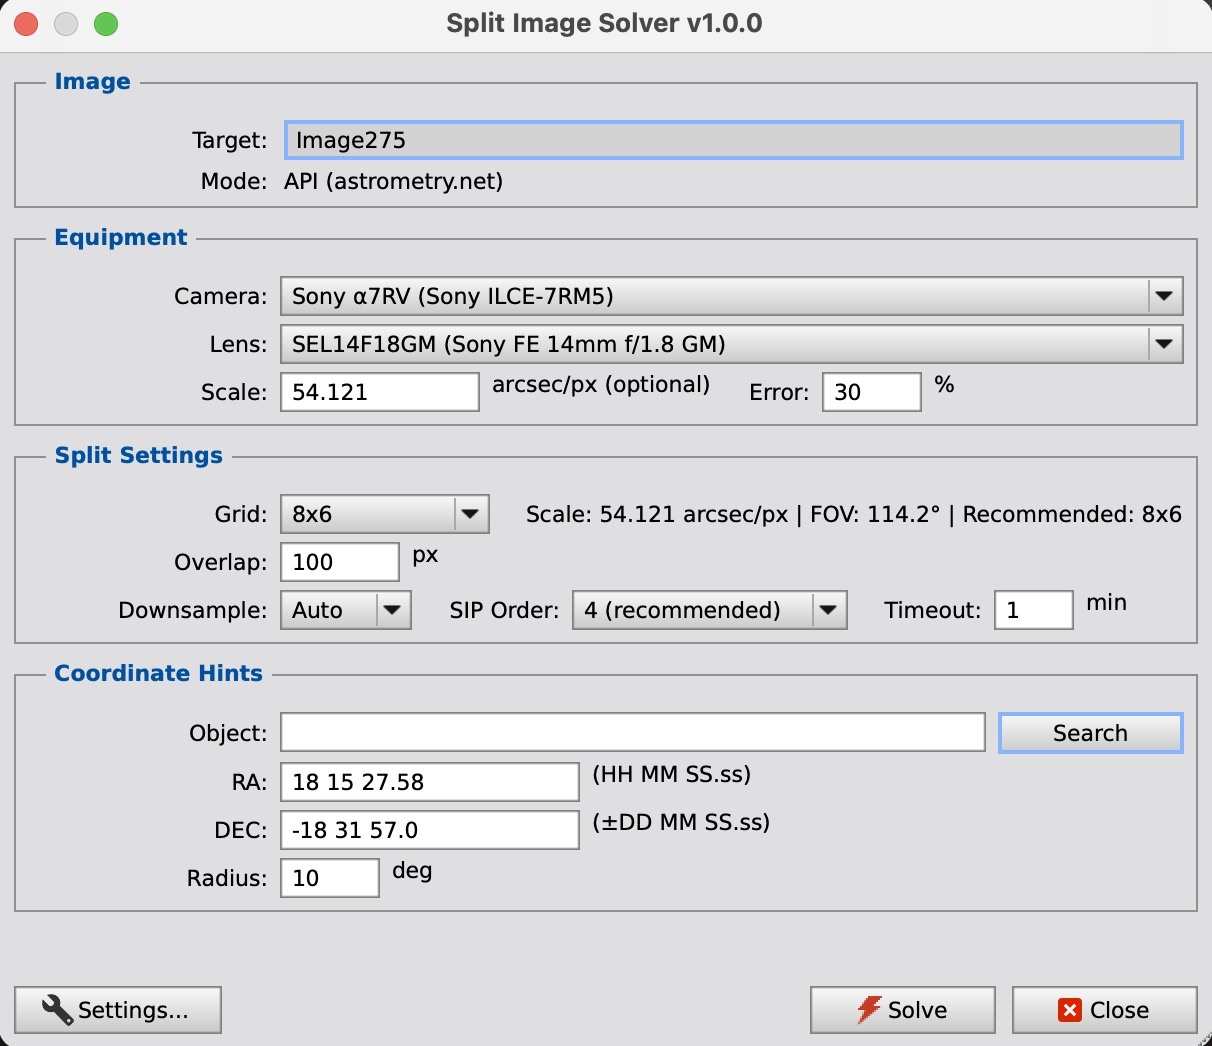
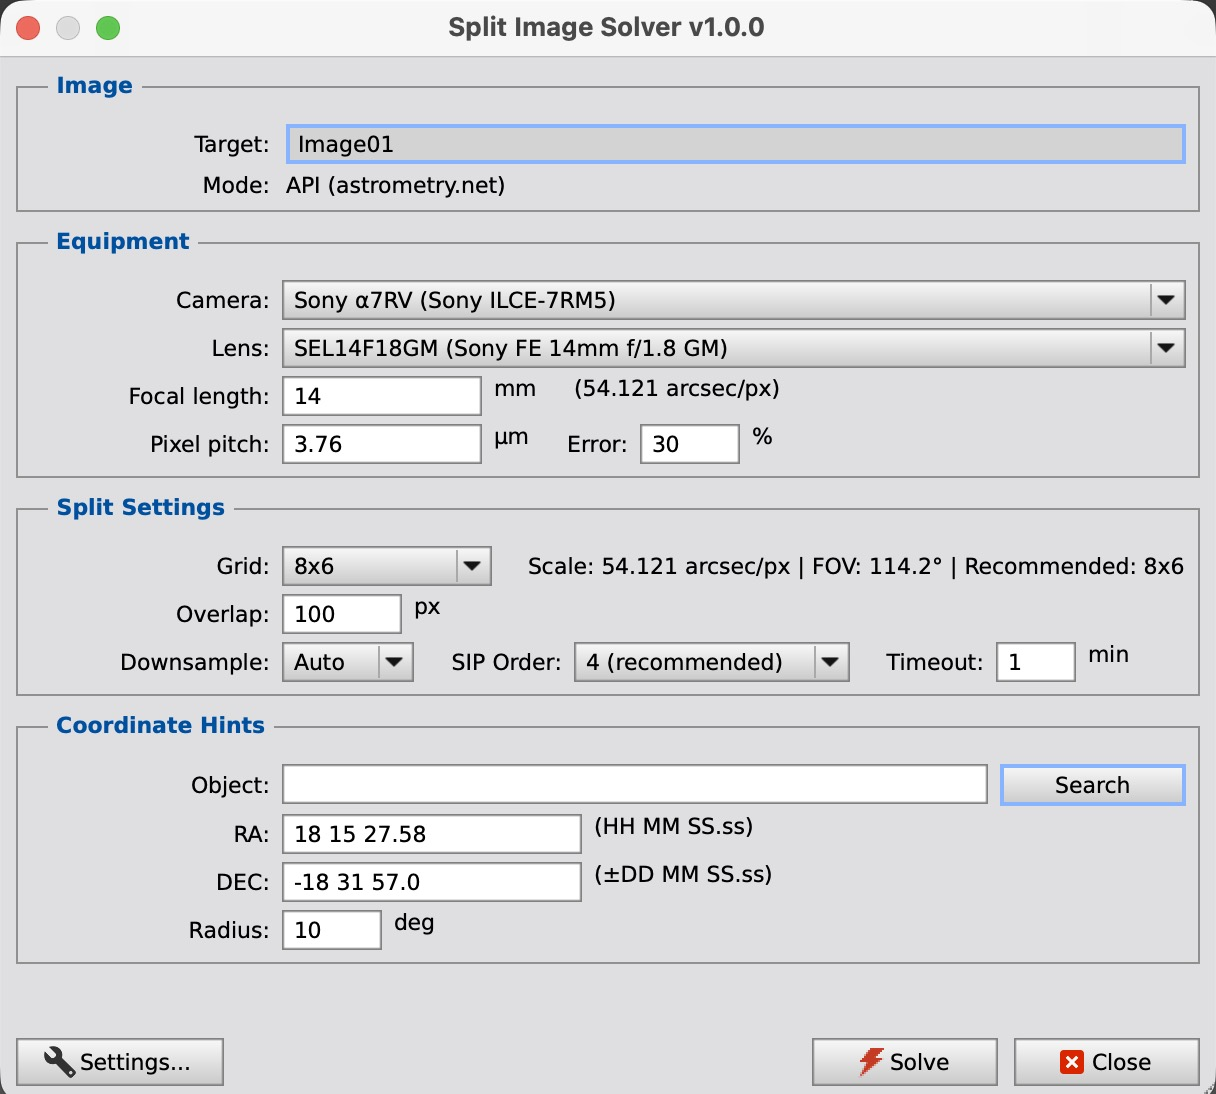
Scale入力をFocal Length/Pixel Pitchに変更、機材DB拡充、リポジトリURL更新
- Scale直接入力欄をFocal Length (mm) + Pixel Pitch (μm)に変更
- カメラ/レンズ選択時に自動入力、手入力も可能
- William Optics RedCatシリーズ (41/51/61/71) を追加
- タカハシFSQシリーズ (85EDP/106ED/130ED) を追加
- インストールURLをGitHub Pages (ysmrastro.github.io) に変更
- メインダイアログのスクリーンショットを更新

diff --git a/javascript/SplitImageSolver.js b/javascript/SplitImageSolver.js
@@ -1863,7 +1863,6 @@ function SplitSolverDialog() {
    var savedApiKey = Settings.read(SETTINGS_KEY + "/apiKey", DataType_String);
    var savedPythonPath = Settings.read(SETTINGS_KEY + "/pythonPath", DataType_String);
    var savedScriptDir = Settings.read(SETTINGS_KEY + "/scriptDir", DataType_String);
-   var savedScale = Settings.read(SETTINGS_KEY + "/pixelScale", DataType_Double);
    var savedCamera = Settings.read(SETTINGS_KEY + "/camera", DataType_String);
    var savedLens = Settings.read(SETTINGS_KEY + "/lens", DataType_String);
 
@@ -2039,70 +2038,37 @@ function SplitSolverDialog() {
    var imageWidth = targetWindow.isNull ? 0 : targetWindow.mainView.image.width;
    var imageHeight = targetWindow.isNull ? 0 : targetWindow.mainView.image.height;
 
-   // ---- Pixel scale (defined early for updateScaleAndFov) ----
-   this.scaleLabel = new Label(this);
-   this.scaleLabel.text = "Scale:";
-   this.scaleLabel.textAlignment = TextAlign_Right | TextAlign_VertCenter;
-   this.scaleLabel.setFixedWidth(120);
+   // ---- Focal Length ----
+   this.focalLengthLabel = new Label(this);
+   this.focalLengthLabel.text = "Focal length:";
+   this.focalLengthLabel.textAlignment = TextAlign_Right | TextAlign_VertCenter;
+   this.focalLengthLabel.setFixedWidth(120);
 
-   this.scaleEdit = new Edit(this);
-   this.scaleEdit.text = (savedScale && savedScale > 0) ? savedScale.toFixed(3) : "";
-   this.scaleEdit.setFixedWidth(100);
-   this.scaleEdit.toolTip = "Pixel scale (arcsec/px). Leave blank for blind solve";
+   this.focalLengthEdit = new Edit(this);
+   this.focalLengthEdit.setFixedWidth(100);
+   this.focalLengthEdit.toolTip = "Focal length in mm";
 
-   this.scaleUnitLabel = new Label(this);
-   this.scaleUnitLabel.text = "arcsec/px (optional)";
+   this.focalLengthUnitLabel = new Label(this);
+   this.focalLengthUnitLabel.text = "mm";
 
-   // Update scale and FOV when camera/lens selection changes
-   var updateScaleAndFov = function() {
-      var camIdx = self.cameraCombo.currentItem - 1; // -1 for "(select)"
-      var lensIdx = self.lensCombo.currentItem - 1;
-      if (!equipDB) return;
+   // ---- Pixel Pitch ----
+   this.pixelPitchLabel = new Label(this);
+   this.pixelPitchLabel.text = "Pixel pitch:";
+   this.pixelPitchLabel.textAlignment = TextAlign_Right | TextAlign_VertCenter;
+   this.pixelPitchLabel.setFixedWidth(120);
 
-      if (camIdx >= 0 && camIdx < equipDB.cameras.length &&
-          lensIdx >= 0 && lensIdx < equipDB.lenses.length) {
-         var cam = equipDB.cameras[camIdx];
-         var lens = equipDB.lenses[lensIdx];
-         if (cam.pixel_pitch > 0 && lens.focal_length > 0) {
-            var nativeScale = computePixelScale(cam.pixel_pitch, lens.focal_length);
+   this.pixelPitchEdit = new Edit(this);
+   this.pixelPitchEdit.setFixedWidth(100);
+   this.pixelPitchEdit.toolTip = "Pixel pitch (pixel size) in micrometers";
 
-            // Correct for resampled images (e.g., drizzle/stacking)
-            // If actual image is larger than native sensor, pixels are smaller
-            var ps = nativeScale;
-            var scaleNote = "";
-            if (imageWidth > 0 && cam.sensor_width > 0 && imageWidth !== cam.sensor_width) {
-               var resampleRatio = cam.sensor_width / imageWidth;
-               ps = nativeScale * resampleRatio;
-               scaleNote = " (native: " + nativeScale.toFixed(3) + ", image: " +
-                  imageWidth + "x" + imageHeight + " vs sensor: " +
-                  cam.sensor_width + "x" + cam.sensor_height + ")";
-               console.writeln("Scale corrected for resampled image: " +
-                  nativeScale.toFixed(3) + " -> " + ps.toFixed(3) + " arcsec/px" + scaleNote);
-            }
-            self.scaleEdit.text = ps.toFixed(3);
+   this.pixelPitchUnitLabel = new Label(this);
+   this.pixelPitchUnitLabel.text = "\u00B5m";
 
-            // Use actual image dimensions for FOV and grid recommendation
-            var sW = imageWidth > 0 ? imageWidth : cam.sensor_width;
-            var sH = imageHeight > 0 ? imageHeight : cam.sensor_height;
-            var diagFov = computeDiagonalFov(sW, sH, ps);
-            var rec = recommendGrid(diagFov, sW, sH);
-            self.fovInfoLabel.text = "Scale: " + ps.toFixed(3) + " arcsec/px | FOV: " +
-               diagFov.toFixed(1) + "\u00b0 | Recommended: " + rec.cols + "x" + rec.rows;
+   // ---- Scale info (computed, read-only display) ----
+   this.scaleInfoLabel = new Label(this);
+   this.scaleInfoLabel.text = "";
 
-            // Auto-select recommended grid
-            var presetIdx = findGridPresetIndex(self.gridPresets, rec.cols, rec.rows);
-            if (presetIdx >= 0) {
-               self.gridCombo.currentItem = presetIdx;
-            }
-         }
-      } else {
-         self.fovInfoLabel.text = "";
-      }
-   };
-
-   this.cameraCombo.onItemSelected = function() { updateScaleAndFov(); };
-   this.lensCombo.onItemSelected = function() { updateScaleAndFov(); };
-
+   // ---- Scale Error ----
    this.scaleErrorLabel = new Label(this);
    this.scaleErrorLabel.text = "Error:";
    this.scaleErrorLabel.textAlignment = TextAlign_Right | TextAlign_VertCenter;
@@ -2115,16 +2081,109 @@ function SplitSolverDialog() {
    this.scaleErrorUnitLabel = new Label(this);
    this.scaleErrorUnitLabel.text = "%";
 
-   var scaleSizer = new HorizontalSizer;
-   scaleSizer.spacing = 6;
-   scaleSizer.add(this.scaleLabel);
-   scaleSizer.add(this.scaleEdit);
-   scaleSizer.add(this.scaleUnitLabel);
-   scaleSizer.addSpacing(12);
-   scaleSizer.add(this.scaleErrorLabel);
-   scaleSizer.add(this.scaleErrorEdit);
-   scaleSizer.add(this.scaleErrorUnitLabel);
-   scaleSizer.addStretch();
+   // Update scale and FOV from focal length and pixel pitch
+   var updateScaleAndFov = function() {
+      var fl = parseFloat(self.focalLengthEdit.text);
+      var pp = parseFloat(self.pixelPitchEdit.text);
+
+      if (!isNaN(fl) && fl > 0 && !isNaN(pp) && pp > 0) {
+         var nativeScale = computePixelScale(pp, fl);
+
+         // Correct for resampled images (e.g., drizzle/stacking)
+         var ps = nativeScale;
+         var camIdx = self.cameraCombo.currentItem - 1;
+         if (equipDB && camIdx >= 0 && camIdx < equipDB.cameras.length) {
+            var cam = equipDB.cameras[camIdx];
+            if (imageWidth > 0 && cam.sensor_width > 0 && imageWidth !== cam.sensor_width) {
+               var resampleRatio = cam.sensor_width / imageWidth;
+               ps = nativeScale * resampleRatio;
+               console.writeln("Scale corrected for resampled image: " +
+                  nativeScale.toFixed(3) + " -> " + ps.toFixed(3) + " arcsec/px" +
+                  " (image: " + imageWidth + "x" + imageHeight +
+                  " vs sensor: " + cam.sensor_width + "x" + cam.sensor_height + ")");
+            }
+         }
+
+         self.scaleInfoLabel.text = format("(%.3f arcsec/px)", ps);
+
+         // Use actual image dimensions for FOV and grid recommendation
+         var sW = imageWidth;
+         var sH = imageHeight;
+         if (equipDB && camIdx >= 0 && camIdx < equipDB.cameras.length) {
+            var cam2 = equipDB.cameras[camIdx];
+            if (sW <= 0) sW = cam2.sensor_width;
+            if (sH <= 0) sH = cam2.sensor_height;
+         }
+         if (sW > 0 && sH > 0) {
+            var diagFov = computeDiagonalFov(sW, sH, ps);
+            var rec = recommendGrid(diagFov, sW, sH);
+            self.fovInfoLabel.text = "Scale: " + ps.toFixed(3) + " arcsec/px | FOV: " +
+               diagFov.toFixed(1) + "\u00b0 | Recommended: " + rec.cols + "x" + rec.rows;
+
+            // Auto-select recommended grid
+            var presetIdx = findGridPresetIndex(self.gridPresets, rec.cols, rec.rows);
+            if (presetIdx >= 0) {
+               self.gridCombo.currentItem = presetIdx;
+            }
+         } else {
+            self.fovInfoLabel.text = "";
+         }
+      } else {
+         self.scaleInfoLabel.text = "";
+         self.fovInfoLabel.text = "";
+      }
+   };
+
+   // Camera selection: auto-fill pixel pitch
+   this.cameraCombo.onItemSelected = function() {
+      var camIdx = self.cameraCombo.currentItem - 1;
+      if (equipDB && camIdx >= 0 && camIdx < equipDB.cameras.length) {
+         var cam = equipDB.cameras[camIdx];
+         if (cam.pixel_pitch > 0) {
+            self.pixelPitchEdit.text = cam.pixel_pitch.toString();
+         }
+      } else {
+         self.pixelPitchEdit.text = "";
+      }
+      updateScaleAndFov();
+   };
+
+   // Lens selection: auto-fill focal length
+   this.lensCombo.onItemSelected = function() {
+      var lensIdx = self.lensCombo.currentItem - 1;
+      if (equipDB && lensIdx >= 0 && lensIdx < equipDB.lenses.length) {
+         var lens = equipDB.lenses[lensIdx];
+         if (lens.focal_length > 0) {
+            self.focalLengthEdit.text = lens.focal_length.toString();
+         }
+      } else {
+         self.focalLengthEdit.text = "";
+      }
+      updateScaleAndFov();
+   };
+
+   this.focalLengthEdit.onTextUpdated = function() { updateScaleAndFov(); };
+   this.pixelPitchEdit.onTextUpdated = function() { updateScaleAndFov(); };
+
+   var focalSizer = new HorizontalSizer;
+   focalSizer.spacing = 6;
+   focalSizer.add(this.focalLengthLabel);
+   focalSizer.add(this.focalLengthEdit);
+   focalSizer.add(this.focalLengthUnitLabel);
+   focalSizer.addSpacing(12);
+   focalSizer.add(this.scaleInfoLabel);
+   focalSizer.addStretch();
+
+   var pitchSizer = new HorizontalSizer;
+   pitchSizer.spacing = 6;
+   pitchSizer.add(this.pixelPitchLabel);
+   pitchSizer.add(this.pixelPitchEdit);
+   pitchSizer.add(this.pixelPitchUnitLabel);
+   pitchSizer.addSpacing(12);
+   pitchSizer.add(this.scaleErrorLabel);
+   pitchSizer.add(this.scaleErrorEdit);
+   pitchSizer.add(this.scaleErrorUnitLabel);
+   pitchSizer.addStretch();
 
    // ---- Object name search ----
    this.objectLabel = new Label(this);
@@ -2276,8 +2335,21 @@ function SplitSolverDialog() {
       [2, 1], [3, 2], [4, 3], [6, 4], [8, 6], [8, 8], [12, 8]
    ];
 
-   // Trigger initial scale/FOV update if both camera and lens are pre-selected
-   if (this.cameraCombo.currentItem > 0 && this.lensCombo.currentItem > 0) {
+   // Pre-fill focal length / pixel pitch from selected camera/lens
+   if (this.cameraCombo.currentItem > 0 && equipDB) {
+      var initCam = equipDB.cameras[this.cameraCombo.currentItem - 1];
+      if (initCam && initCam.pixel_pitch > 0) {
+         this.pixelPitchEdit.text = initCam.pixel_pitch.toString();
+      }
+   }
+   if (this.lensCombo.currentItem > 0 && equipDB) {
+      var initLens = equipDB.lenses[this.lensCombo.currentItem - 1];
+      if (initLens && initLens.focal_length > 0) {
+         this.focalLengthEdit.text = initLens.focal_length.toString();
+      }
+   }
+   // Trigger initial scale/FOV update
+   if (this.focalLengthEdit.text.length > 0 || this.pixelPitchEdit.text.length > 0) {
       updateScaleAndFov();
    }
 
@@ -2428,6 +2500,7 @@ function SplitSolverDialog() {
       self.sipCombo.enabled = isApi;
       self.timeoutEdit.enabled = isApi;
       self.radiusEdit.enabled = isApi;
+      self.scaleErrorEdit.enabled = isApi;
       // Labels
       self.downsampleLabel.enabled = isApi;
       self.sipLabel.enabled = isApi;
@@ -2435,6 +2508,8 @@ function SplitSolverDialog() {
       self.timeoutUnitLabel.enabled = isApi;
       self.radiusLabel.enabled = isApi;
       self.radiusUnitLabel.enabled = isApi;
+      self.scaleErrorLabel.enabled = isApi;
+      self.scaleErrorUnitLabel.enabled = isApi;
    };
 
    this.settingsButton.onClick = function() {
@@ -2480,7 +2555,8 @@ function SplitSolverDialog() {
    equipGroup.sizer.spacing = 4;
    equipGroup.sizer.add(cameraSizer);
    equipGroup.sizer.add(lensSizer);
-   equipGroup.sizer.add(scaleSizer);
+   equipGroup.sizer.add(focalSizer);
+   equipGroup.sizer.add(pitchSizer);
 
    // ---- GroupBox: Split Settings ----
    var splitGroup = new GroupBox(this);
@@ -2582,18 +2658,30 @@ SplitSolverDialog.prototype.doSolve = function() {
    if (this.downsampleCombo.currentItem === 1) hints.downsample_factor = 2;
    else if (this.downsampleCombo.currentItem === 2) hints.downsample_factor = 4;
 
-   // Scale
-   var scaleText = this.scaleEdit.text.trim();
-   if (scaleText.length > 0) {
-      var scale = parseFloat(scaleText);
-      if (!isNaN(scale) && scale > 0) {
-         hints.scale_units = "arcsecperpix";
-         hints.scale_est = scale;
-         var errText = this.scaleErrorEdit.text.trim();
-         var errPct = parseFloat(errText);
-         hints.scale_err = (!isNaN(errPct) && errPct > 0) ? errPct : 30;
-         Settings.write(SETTINGS_KEY + "/pixelScale", DataType_Double, scale);
+   // Scale (computed from focal length and pixel pitch)
+   var fl = parseFloat(this.focalLengthEdit.text);
+   var pp = parseFloat(this.pixelPitchEdit.text);
+   if (!isNaN(fl) && fl > 0 && !isNaN(pp) && pp > 0) {
+      var nativeScale = computePixelScale(pp, fl);
+      var scale = nativeScale;
+
+      // Correct for resampled images
+      var camIdxScale = this.cameraCombo.currentItem - 1;
+      if (this.equipDB && camIdxScale >= 0 && camIdxScale < this.equipDB.cameras.length) {
+         var camScale = this.equipDB.cameras[camIdxScale];
+         var imgW = targetWindow.mainView.image.width;
+         if (imgW > 0 && camScale.sensor_width > 0 && imgW !== camScale.sensor_width) {
+            scale = nativeScale * (camScale.sensor_width / imgW);
+         }
       }
+
+      hints.scale_units = "arcsecperpix";
+      hints.scale_est = scale;
+      hints._nativeScale = nativeScale;
+      var errText = this.scaleErrorEdit.text.trim();
+      var errPct = parseFloat(errText);
+      hints.scale_err = (!isNaN(errPct) && errPct > 0) ? errPct : 30;
+      Settings.write(SETTINGS_KEY + "/pixelScale", DataType_Double, scale);
    }
 
    // Save camera/lens selection
@@ -2628,21 +2716,7 @@ SplitSolverDialog.prototype.doSolve = function() {
    }
    hints._projection = projection;
 
-   // Store native (optical) pixel scale for projection correction in buildTileHints.
-   // scale_est may be corrected for resampled images, but projection geometry
-   // depends on the native optical scale.
-   if (this.equipDB) {
-      var camIdx2 = this.cameraCombo.currentItem - 1;
-      var lensIdx2 = this.lensCombo.currentItem - 1;
-      if (camIdx2 >= 0 && lensIdx2 >= 0 &&
-          camIdx2 < this.equipDB.cameras.length && lensIdx2 < this.equipDB.lenses.length) {
-         var cam2 = this.equipDB.cameras[camIdx2];
-         var lens2 = this.equipDB.lenses[lensIdx2];
-         if (cam2.pixel_pitch > 0 && lens2.focal_length > 0) {
-            hints._nativeScale = computePixelScale(cam2.pixel_pitch, lens2.focal_length);
-         }
-      }
-   }
+   // _nativeScale is already set above from focal length / pixel pitch
 
    // Grid settings
    var gridPreset = this.gridPresets[this.gridCombo.currentItem];
@@ -3035,18 +3109,16 @@ SplitSolverDialog.prototype.doLocalSolve = function(targetWindow, hints, gridX, 
       args.push("--dec");
       args.push(hints.center_dec.toString());
    }
-   if (hints.scale_est) {
-      // Derive focal length and pixel pitch from scale if available
-      var camIdx = this.cameraCombo.currentItem - 1;
-      var lensIdx = this.lensCombo.currentItem - 1;
-      if (this.equipDB && camIdx >= 0 && camIdx < this.equipDB.cameras.length) {
-         args.push("--pixel-pitch");
-         args.push(this.equipDB.cameras[camIdx].pixel_pitch.toString());
-      }
-      if (this.equipDB && lensIdx >= 0 && lensIdx < this.equipDB.lenses.length) {
-         args.push("--focal-length");
-         args.push(this.equipDB.lenses[lensIdx].focal_length.toString());
-      }
+   // Pass focal length and pixel pitch from UI input fields
+   var localFl = parseFloat(this.focalLengthEdit.text);
+   var localPp = parseFloat(this.pixelPitchEdit.text);
+   if (!isNaN(localPp) && localPp > 0) {
+      args.push("--pixel-pitch");
+      args.push(localPp.toString());
+   }
+   if (!isNaN(localFl) && localFl > 0) {
+      args.push("--focal-length");
+      args.push(localFl.toString());
    }
    if (hints._projection && hints._projection !== "rectilinear") {
       args.push("--lens-type");

diff --git a/README.md b/README.md
@@ -39,7 +39,7 @@ Local モードを利用する場合は「[Local モードのセットアップ]
 2. **Resources > Updates > Manage Repositories** を開く
 3. リポジトリ URL を追加:
    ```
-   https://raw.githubusercontent.com/ysmr3104/split-image-solver/main/repository/
+   https://ysmrastro.github.io/pixinsight-scripts/
    ```
 4. **Resources > Updates > Check for Updates** を実行
 5. SplitImageSolver をインストール

diff --git a/javascript/README.md b/javascript/README.md
@@ -51,7 +51,7 @@ Local モードを利用する場合は、追加で Python 3.8+ / solve-field / 
 1. **Resources > Updates > Manage Repositories**
 2. リポジトリ URL を追加:
    ```
-   https://raw.githubusercontent.com/ysmr3104/split-image-solver/main/repository/
+   https://ysmrastro.github.io/pixinsight-scripts/
    ```
 3. **Check for Updates** → SplitImageSolver をインストール
 
